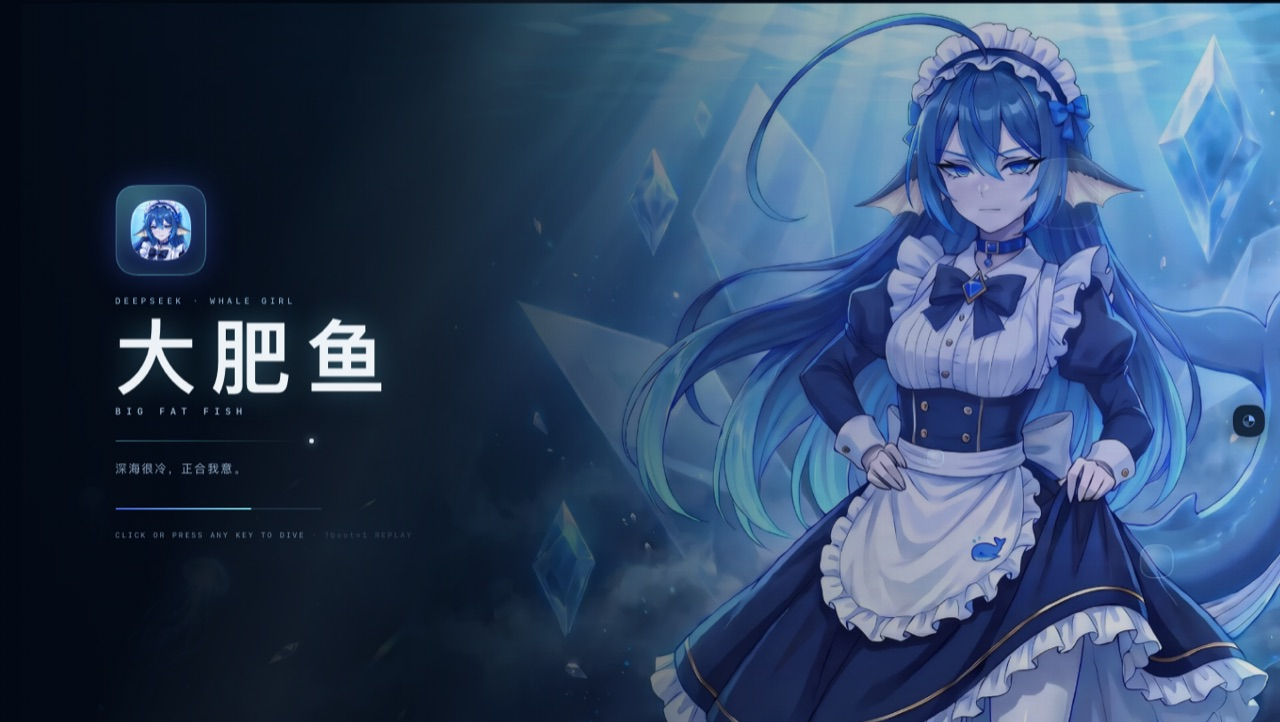
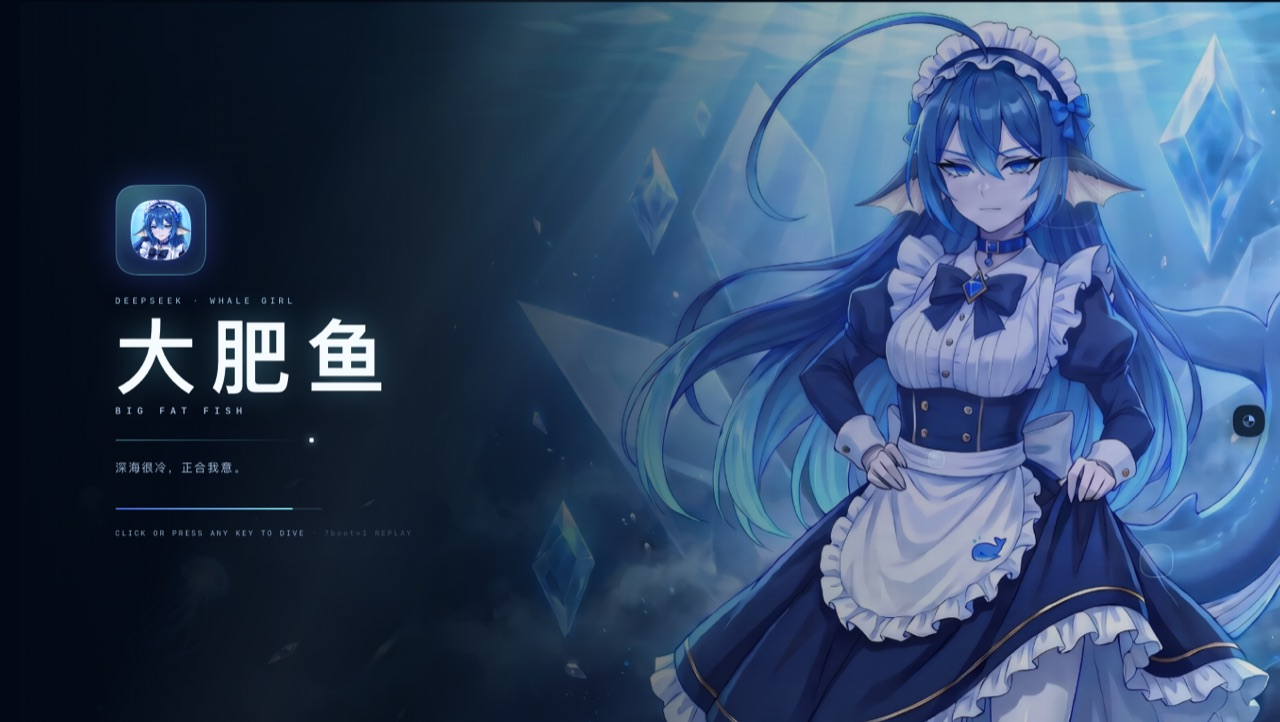
fix(spring-meadow): add boot art; docs: swap boot screenshots to velvet/bff/ink

diff --git a/README.md b/README.md
@@ -95,9 +95,9 @@ dsh plugin --profile desktop add /path/to/painted-screens
 
 每套皮肤有自己的开场，不是一张静态遮罩。
 
-| 鲸歌 · 下潜 | 大肥鱼 · 深蓝 | 樱花树下 |
+| 绯夜尤物 | 大肥鱼 | 墨竹 |
 |---|---|---|
-| ![](docs/shots/boot-whale.jpg) | ![](docs/shots/boot-bff.jpg) | ![](docs/shots/boot-sakura.jpg) |
+| ![](docs/shots/boot-velvet.jpg) | ![](docs/shots/boot-bff.jpg) | ![](docs/shots/boot-ink.jpg) |
 
 想关掉开场：URL 加 `?boot=0`。
 
